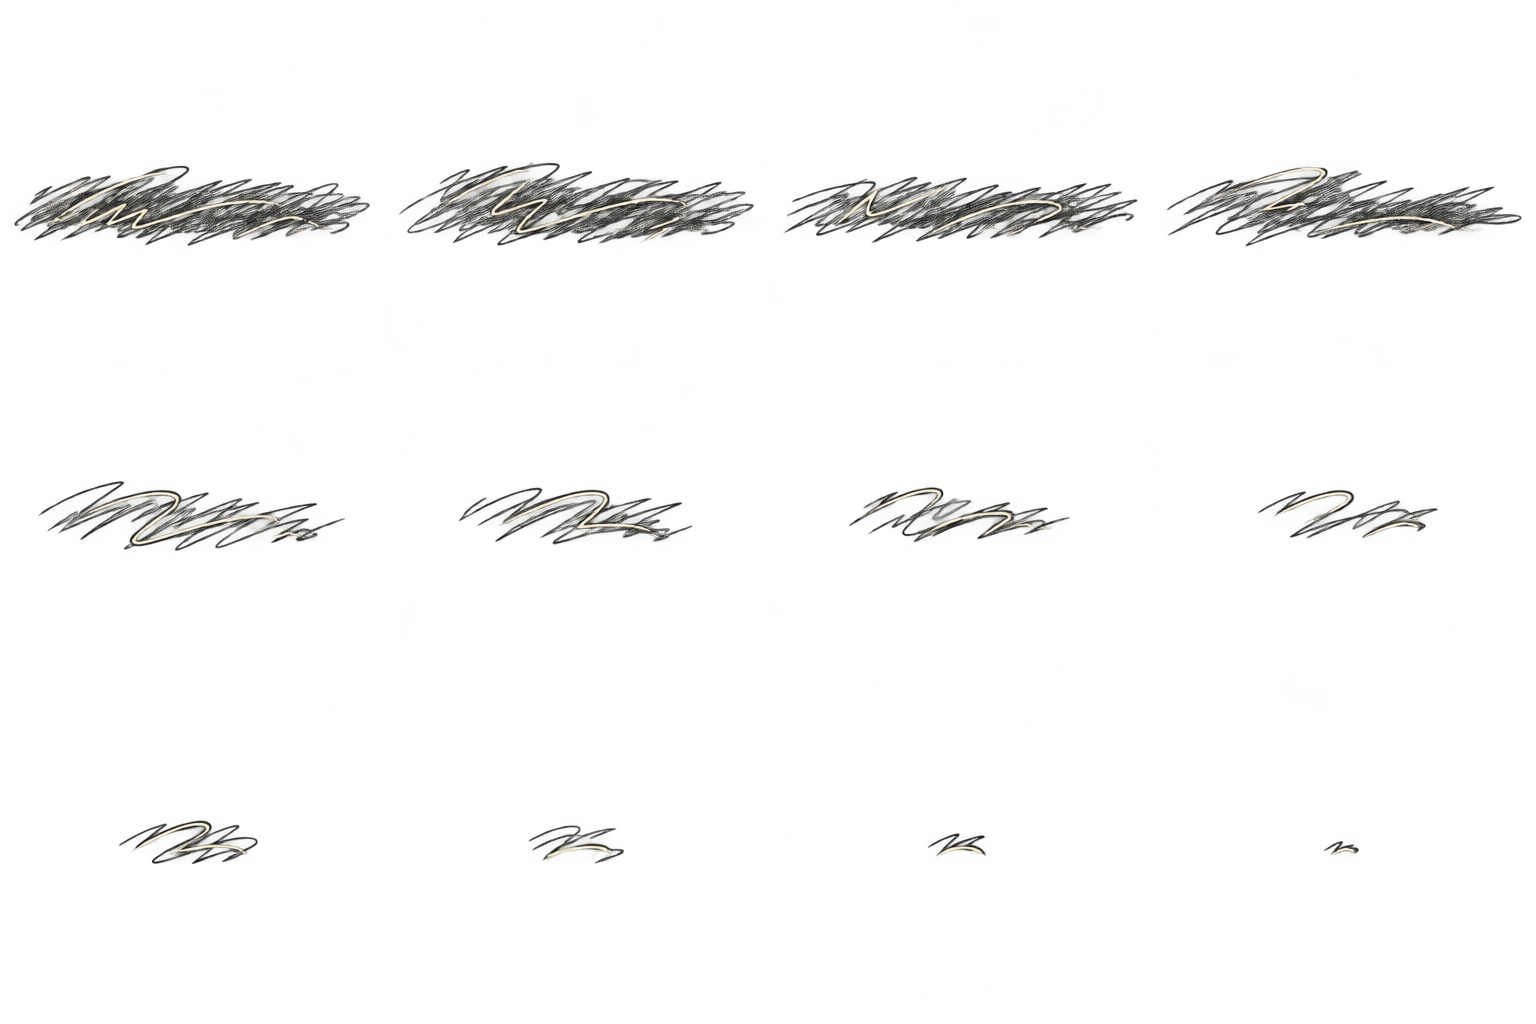
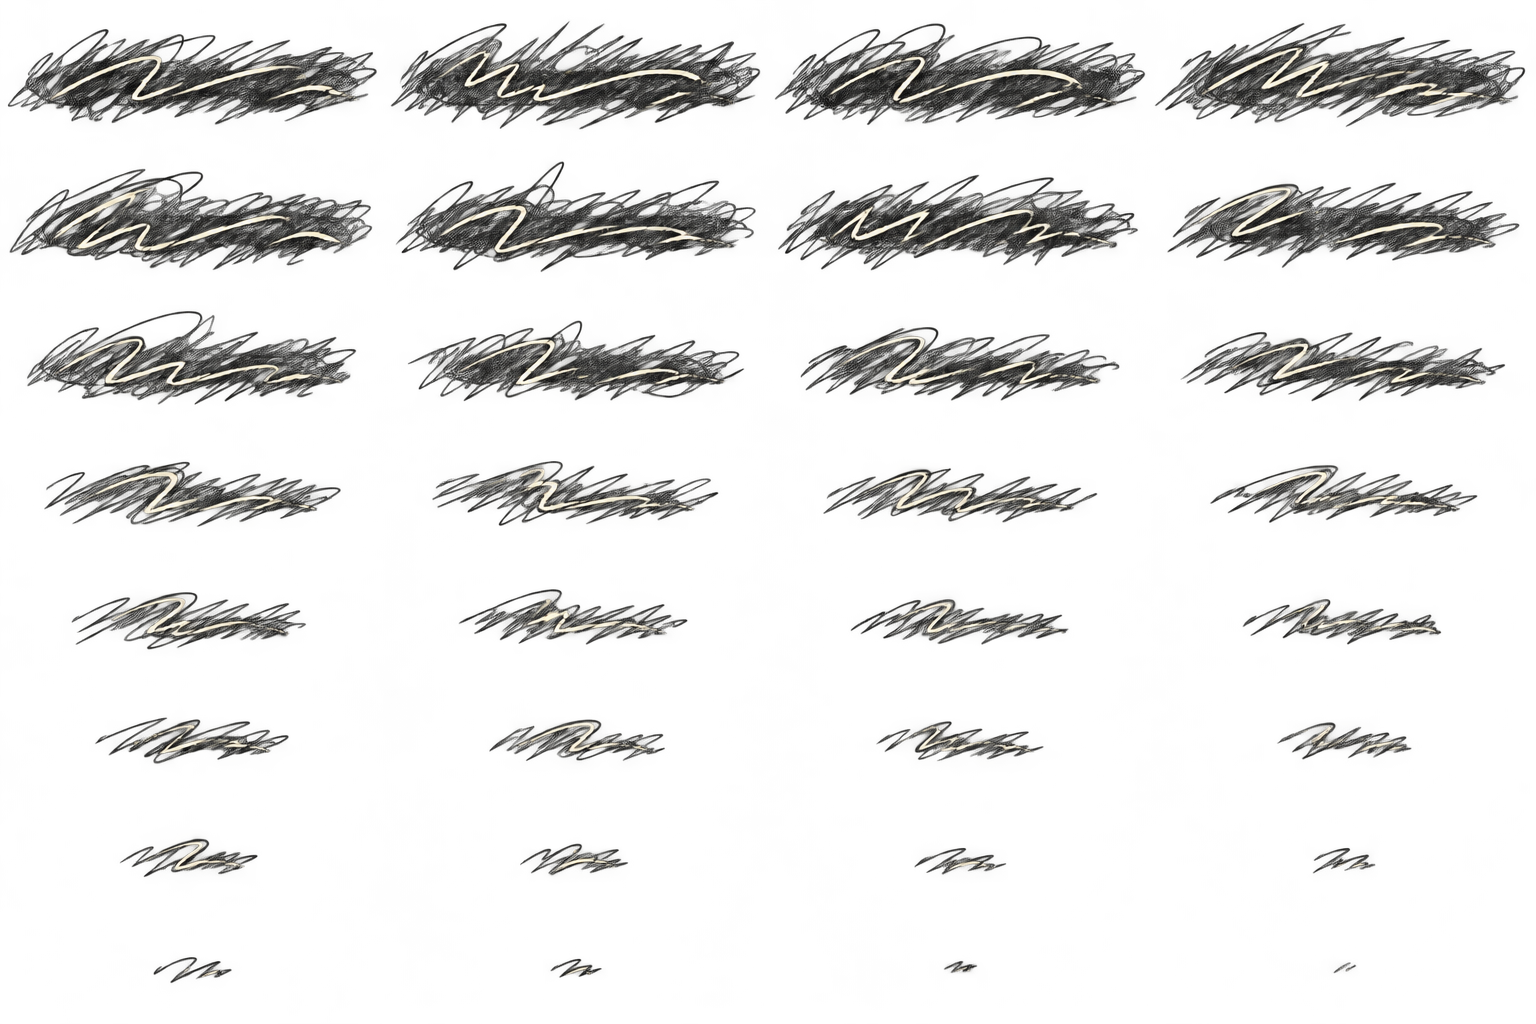
Expand board scribble effect to 32 source drawings

diff --git a/src/skateReferenceLab/boardScribble.ts b/src/skateReferenceLab/boardScribble.ts
@@ -1,15 +1,45 @@
 import * as THREE from 'three';
 import {skateboardSettings} from '../skateboard/settings';
 
-export const SCRIBBLE_FRAMES = 12;
+export const SCRIBBLE_FRAMES = 32;
 export const SCRIBBLE_FPS = 60;
 const REVEAL_FRAME = 2;
-// Ink bounds measured from the final atlas. Compensate the small differences
-// in drawing placement, without cropping/rescaling any frame or changing ink weight.
-const FRAME_CENTERS = [
-  [.498698,.397949], [.501302,.402344], [.501302,.386230], [.498698,.396484],
-  [.497396,.489746], [.497396,.489746], [.496094,.494141], [.509115,.495605],
-  [.489583,.533203], [.5,.527344], [.490885,.528809], [.492188,.517090],
+// Thirty-two source drawings. Every sample uses the same 384 × 128 pixels.
+// Measured UV origins / ink anchors accommodate the hand-drawn row spacing,
+// keeping the ink centred without rescaling a drawing or changing pen weight.
+const FRAME_REGIONS = [
+  [0,0.86328125,0.5,0.5],
+  [0.25,0.864257813,0.497395833,0.5],
+  [0.5,0.865234375,0.498697917,0.5],
+  [0.75,0.865234375,0.48828125,0.49609375],
+  [0,0.723632813,0.49609375,0.5],
+  [0.25,0.7265625,0.5,0.49609375],
+  [0.5,0.720703125,0.493489583,0.5],
+  [0.75,0.717773438,0.497395833,0.5],
+  [0,0.588867188,0.497395833,0.5],
+  [0.25,0.5859375,0.498697917,0.49609375],
+  [0.5,0.583007813,0.498697917,0.5],
+  [0.75,0.580078125,0.498697917,0.5],
+  [0,0.455078125,0.501302083,0.50390625],
+  [0.25,0.456054688,0.497395833,0.5],
+  [0.5,0.455078125,0.5,0.49609375],
+  [0.75,0.455078125,0.498697917,0.50390625],
+  [0,0.33203125,0.490885417,0.5],
+  [0.25,0.3359375,0.4921875,0.5],
+  [0.5,0.331054688,0.497395833,0.5],
+  [0.75,0.331054688,0.493489583,0.5],
+  [0,0.21484375,0.498697917,0.49609375],
+  [0.25,0.21484375,0.502604167,0.5],
+  [0.5,0.21484375,0.498697917,0.49609375],
+  [0.75,0.21484375,0.5,0.5],
+  [0,0.099609375,0.489583333,0.50390625],
+  [0.25,0.098632813,0.493489583,0.5],
+  [0.5,0.09765625,0.5,0.49609375],
+  [0.75,0.09765625,0.498697917,0.5],
+  [0,0,0.5,0.42578125],
+  [0.25,0,0.498697917,0.44140625],
+  [0.5,0,0.5,0.44921875],
+  [0.75,0,0.501302083,0.44140625]
 ] as const;
 
 /** Simulation clock, so pause / frame step / slow motion also control the ink.
@@ -39,7 +69,7 @@ export class BoardScribbleSequence {
   }
 }
 
-/** Twelve independently drawn PNG frames on a fixed-size billboard. Only the
+/** Thirty-two independently drawn PNG frames on a fixed-size billboard. Only the
  * atlas cell changes: no scale tween, alpha fade, or resampled shrinking image. */
 export class BoardScribbleEffect {
   readonly sprite: THREE.Sprite;
@@ -56,7 +86,7 @@ export class BoardScribbleEffect {
     private readonly board: THREE.Object3D, private readonly clock: BoardScribbleSequence) {
     this.texture = texture.clone(); this.texture.needsUpdate = true;
     this.texture.colorSpace = THREE.SRGBColorSpace;
-    this.texture.repeat.set(1 / 4, 1 / 3);
+    this.texture.repeat.set(1 / 4, 1 / 8);
     this.texture.magFilter = this.texture.minFilter = THREE.LinearFilter;
     this.texture.generateMipmaps = false;
     const material = new THREE.SpriteMaterial({map:this.texture, transparent:false,
@@ -83,8 +113,8 @@ export class BoardScribbleEffect {
       if (newBurst) {
         this.board.getWorldScale(this.worldScale);
         const width = (s.deckNoseLength + s.deckTailLength) * scale * this.worldScale.z * 1.45;
-        // Same pixel density and quad dimensions for ALL twelve drawings.
-        this.sprite.scale.set(width, width * (1024 / 3) / (1536 / 4), 1);
+        // Same pixel density and quad dimensions for ALL thirty-two drawings.
+        this.sprite.scale.set(width, width / 3, 1);
       }
     }
     this.serial = this.clock.serial;
@@ -93,9 +123,9 @@ export class BoardScribbleEffect {
     this.root.localToWorld(this.a); this.root.localToWorld(this.b);
     this.a.applyMatrix4(camera.matrixWorldInverse); this.b.applyMatrix4(camera.matrixWorldInverse);
     this.sprite.material.rotation = Math.atan2(this.b.y - this.a.y, this.b.x - this.a.x);
-    const frame = this.clock.frame;
-    this.sprite.center.set(FRAME_CENTERS[frame][0], FRAME_CENTERS[frame][1]);
-    this.texture.offset.set((frame % 4) / 4, 1 - (Math.floor(frame / 4) + 1) / 3);
+    const frame = FRAME_REGIONS[this.clock.frame];
+    this.sprite.center.set(frame[2], frame[3]);
+    this.texture.offset.set(frame[0], frame[1]);
   }
   dispose(): void {this.sprite.removeFromParent(); this.sprite.material.dispose(); this.texture.dispose();}
 }

diff --git a/src/skateReferenceLab/assets/README.md b/src/skateReferenceLab/assets/README.md
@@ -1,22 +1,32 @@
 # Board scribble flipbook
 
-`board-scribble.png` is a 1536 × 1024 transparent PNG atlas: four columns,
-three rows, read left to right then top to bottom. Twelve independent drawings
-play at 60 fps (0.2 seconds). The apex is long and slim, with fine pen strokes
-that keep their weight as the successive drawings get smaller.
+`board-scribble.png` is a 1536 × 1024 transparent PNG atlas with **32 distinct
+source drawings**, arranged in four columns and eight rows. They play once
+at 60 fps (0.533 seconds). The first eight drawings chatter at full deck size;
+the following twenty-four progressively clear to short pen ticks. Thin strokes
+retain their weight throughout; the smaller drawings use shorter/fewer marks.
 
-Generated using the built-in imagegen tool on 6 November 2026 for this local
-prototype, with a refinement for the user's thinner-stroke request. No game
-reference textures were used. The renderer uses a fixed-size billboard,
-stepped atlas UVs, and an alpha cutout to discard soft fringe pixels. No
-scale animation or opacity fade is used. Equipment switches under the first
-full-size drawings, before the smaller drawings expose the board/location.
+Generated with the built-in imagegen tool on 6 November 2026, extending the
+earlier thin-stroke atlas at the user's request for more source frames. No game
+reference textures were used. The renderer selects fixed 384 × 128 pixel
+windows, with measured UV origins/anchors accommodating the source's uneven
+row spacing. Every window has different source pixels. Sprite dimensions and
+pixel density stay fixed; there is no scale tween or opacity fade. An alpha
+cutout discards the generated soft fringe around the ink.
 
-## Final refinement prompt
+## Final generation prompt
 
-Edit this skateboard-effect sprite atlas. Keep exactly TWELVE frames in FOUR columns and THREE rows on a 1536x1024 transparent PNG. Equal cells, centered drawings. These are production game sprites, not a contact-sheet illustration.
-The user requests THINNER STROKES. Redraw every mark using a consistent fine-tip pen only 2.5 to 3 pixels thick at this image resolution, including the largest scribbles and the final tiny ticks. No thick marker strokes, no tapered calligraphic ribbons. Black ink with a few equally fine ivory pen marks. No glow, no smoke, no shadows, no background. Fully transparent outside the actual sharp opaque ink strokes.
-Make the first four dense, tangled skateboard-sized scribbles distinctly LONG AND SLIM: maximum 345 pixels wide and 82 pixels high, approximately FOUR TIMES wider than tall, with very few stray flicks outside that narrow silhouette. Hundreds of rapid fine-line crossings can cover the board without using fat strokes. Four independently redrawn punk-pen scribbles, all full size with different paths.
-Then eight newly drawn, successively smaller doodles, all with THE SAME 3-pixel pen thickness:
-frames5-12 ink extents 295x75, 250x65, 205x60, 160x50, 115x40, 80x30, 43x22, 20x15 pixels.
-Every single drawing centered at the EXACT CENTER of its equal grid cell; no offset between rows. Crisp flat DIY skate-punk ink. No text, labels, borders, characters or board. Each cell is a separate drawing, not a scaled duplicate. Do not shrink the pen thickness in the later frames. Preserve the transparent background.
+Use case: stylized-concept. Production transparent PNG sprite atlas for a rapid skateboard appear/disappear scribble effect.
+Use the attached twelve-frame sheet ONLY as the thin-ink style reference. REPLACE IT with THIRTY-TWO distinct source drawings, arranged in EXACTLY FOUR COLUMNS AND EIGHT ROWS on a 1536x1024 canvas. Each cell is 384 pixels wide by 128 pixels tall. Read left to right, then top to bottom. Draw EVERY one of the 32 cells.
+Crisp flat black fine-tip pen scribbles, 2.5 to 3 pixel stroke thickness. Small equally fine ivory accents. Dense rapid crossing pen paths, scratchy zigzags and tiny irregular loops, lively DIY skate-punk animation. No fat marker ribbons, no smoke, NO glow, no gradients, no shadow. Transparent outside the actual opaque ink. No background, labels, grid or text.
+All drawings must be centered exactly in their own cell and fit safely within it. Their apex is a long narrow skateboard silhouette about 350 pixels wide and 76 pixels high. Every frame has a NEW pen path, clearly a fresh energetic redraw. Do not repeat a signature S, W or Z shape across frames. No duplicate frames, no resized copies, no interpolation. Keep pen thickness identical across all 32 frames; smaller drawings use fewer and shorter strokes.
+Detailed layout:
+Row1 frames1-4: FOUR DIFFERENT densely scribbled full-size deck silhouettes, each 350x76px.
+Row2 frames5-8: FOUR more DIFFERENT dense full-size redraws, widths 350,346,342,336px and height74px. Visibly restless/chattering lines, coherent outline.
+Row3 frames9-12: NEW drawings shrinking in extent 320x72,308x70,296x68,284x66px.
+Row4 frames13-16: NEW drawings 272x64,260x62,248x60,236x58px.
+Row5 frames17-20: NEW drawings 224x56,212x54,200x52,188x50px.
+Row6 frames21-24: NEW drawings 176x48,164x46,152x44,140x42px.
+Row7 frames25-28: NEW drawings 128x40,112x36,96x32,80x28px.
+Row8 frames29-32: NEW drawings 64x24,48x20,32x16,16x12px. Last frame is just two or three fine ink ticks.
+One consistent 3px pen at this resolution, especially in the small frames. It should feel like 32 hand-drawn frames of aggressive fast punk ink scrawling over a skateboard, then scribbling itself away. No actual skateboard or character. EXACT 4x8 atlas, 32 source drawings, transparent background.

diff --git a/docs/LEVEL_ITERATIONS.md b/docs/LEVEL_ITERATIONS.md
@@ -8943,3 +8943,23 @@ Details: [Skate playable study](SKATE_PLAYTEST.md).
   original-fade comparison, working catalogue links and loaded source library.
   Evidence is external `skate-scribble/`; asset/prompt provenance is in
   `src/skateReferenceLab/assets/README.md`. No publication is authorized.
+
+## Skate scribbles — 32 source frames
+
+- 6 November 2026 NZDT: about five minutes prompt-to-playable, nine minutes
+  including validation. Expanded the effect from twelve to thirty-two source
+  drawings at the retained 60 fps: eight full-size redraws followed by twenty-four
+  smaller drawings, for a 0.533-second burst. Thin pen strokes and deck proportions
+  remain the target; no sprite shrinking or controller changes.
+- Generated a new transparent PNG atlas and measured fixed 384 × 128 pixel
+  windows/anchors for each drawing. All 32 source windows contain ink and have
+  distinct pixel hashes; no duplicated or interpolated frames. The same sprite
+  dimensions and pixel density apply throughout each burst.
+- Focused motion checks pass, including all 32 UV frames, finite disappearance,
+  constant sprite dimensions and 1,980 exact native-controller comparisons.
+  Production type-check/build and isolated local build pass. Browser review at
+  normal and MAX/native checks early/middle/final appearance frames, the full
+  dismount sequence and final hidden board. Console clear.
+- Evidence: external `skate-scribble-32/`, including atlas bounds/hashes, browser
+  state captures and build logs. The existing port 5199 playtest and `/labs`
+  links remain current. Local only; no publication is authorized.

diff --git a/docs/SKATE_PLAYTEST.md b/docs/SKATE_PLAYTEST.md
@@ -59,8 +59,8 @@ and finite mount/dismount; short fades cover the source clips' carried endpoints
 
 ## Punk board scribbles
 
-The default board effect uses twelve independently drawn thin-ink PNG frames
-at **60 fps**, lasting 0.2 seconds. Four rapid full-size redraws have a long,
+The default board effect uses thirty-two independently drawn thin-ink PNG frames
+at **60 fps**, lasting 0.533 seconds. Eight rapid full-size redraws have a long,
 slim deck silhouette; subsequent drawings use fewer, shorter strokes with the
 same pen weight. A single fixed-size billboard swaps atlas cells, never scales
 down the artwork or fades it. Its long axis follows the board in the camera.
